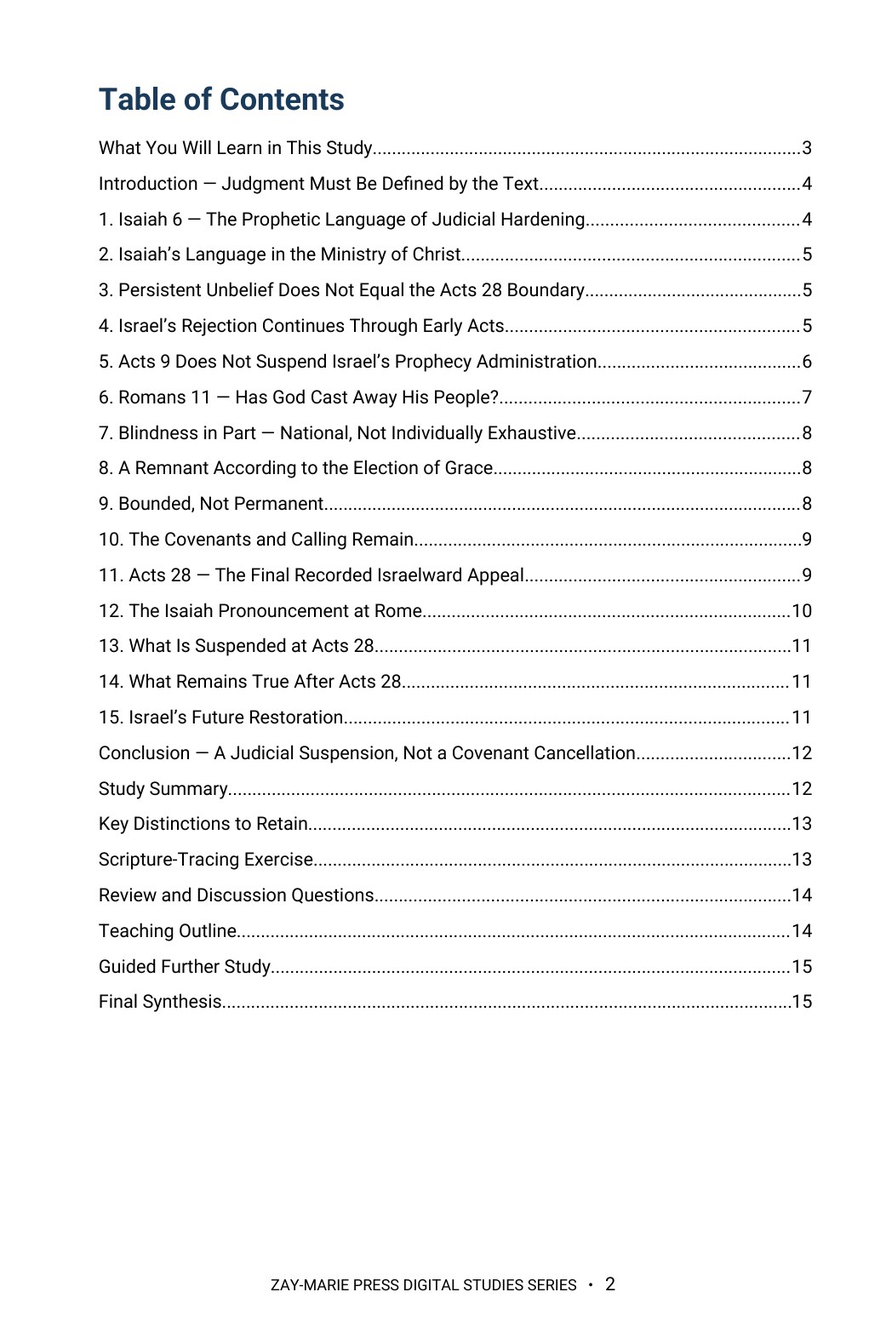
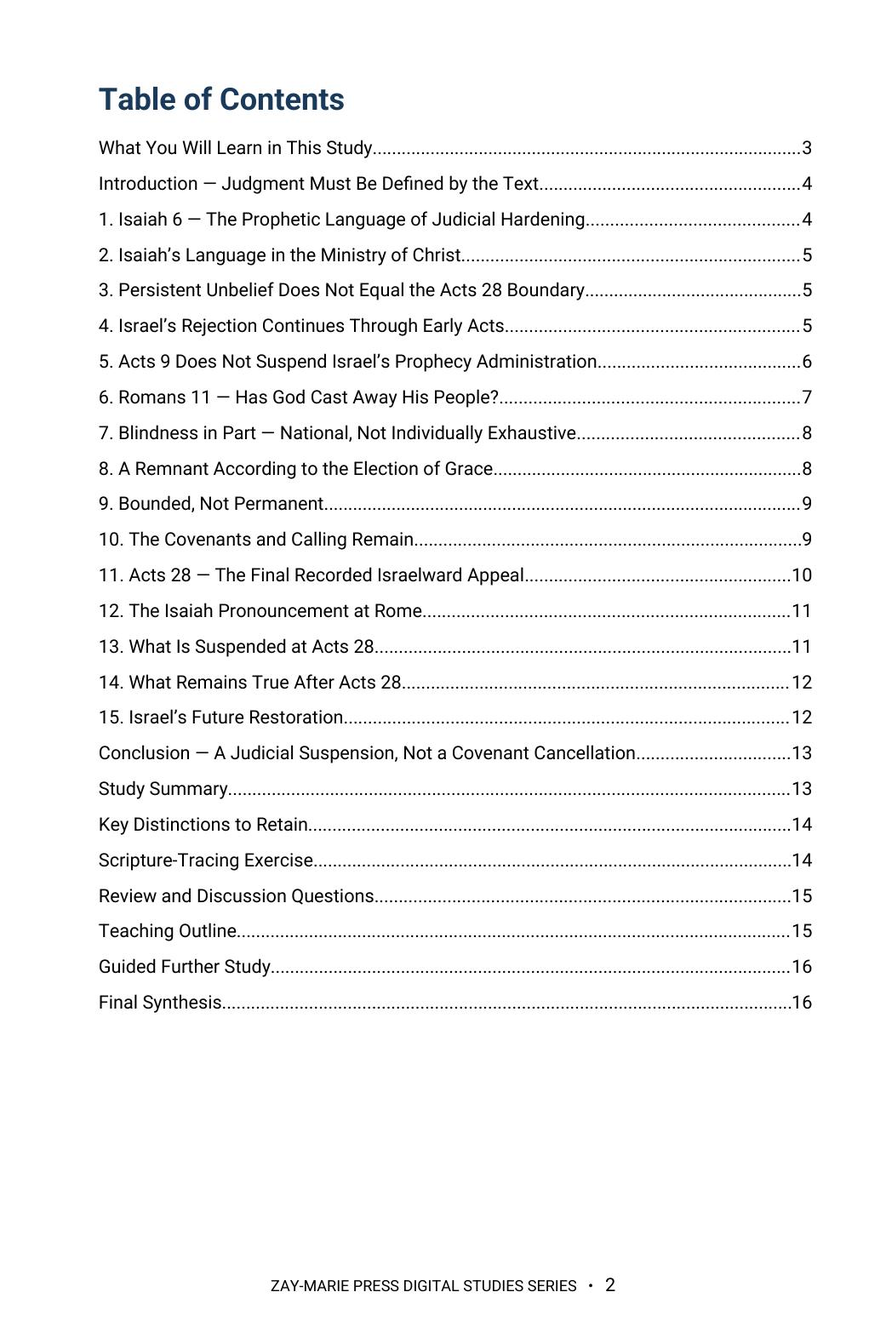
Study 21 retrofit: page count 17, previews 2-4, hero/included counts; trackers v1.27/v1.120
Claude-Session: https://claude.ai/code/session_01KcENxFzE91mCRyTPWhcwnE

diff --git a/study-21-israels-judicial-blinding.html b/study-21-israels-judicial-blinding.html
@@ -14,7 +14,7 @@
   <body class="study-detail-page">
     <header class="site-header"><div class="wrap nav"><a class="logo" href="index.html" aria-label="Zay-Marie Press home"><img src="assets/zay-marie-press-logo-hq.png" alt="Zay-Marie Press" width="420" height="238" /></a><button class="menu-toggle" type="button" aria-expanded="false" aria-controls="primary-nav">MENU</button><nav aria-label="Primary navigation" class="primary-nav" id="primary-nav"><a href="index.html">HOME</a><a href="books.html">BOOKS</a><a href="series.html">SERIES</a><a class="active" aria-current="page" href="digital-studies.html">DIGITAL STUDIES</a><a href="biblical-hermeneutics-course.html">COURSE</a><a href="about.html">ABOUT</a><a href="resources.html">RESOURCES</a><a href="contact.html">CONTACT</a></nav></div></header>
     <main>
-      <section class="detail-hero"><div class="wrap detail-hero-grid"><div class="detail-cover"><picture><source srcset="assets/study-21-cover.webp" type="image/webp"><img src="assets/study-21-cover.jpg" alt="Israel’s Judicial Blinding - Study 21 cover" /></picture></div><div><div class="eyebrow">STUDY 21 · DIGITAL STUDY</div><h1>Israel’s Judicial Blinding</h1><p class="detail-subtitle">Hardening, Purpose, and the Hope of Restoration</p><p class="detail-kicker">A Clearer Understanding of Romans 11 and the Acts 28 Boundary</p><p class="detail-copy">Israel’s judicial blinding must be understood within the full Acts narrative. Isaiah’s hardening language appears before Acts 28, yet Israel’s active national Prophecy administration continues during the Acts Overlap while the Mystery administration also operates distinctly through Paul.</p><p class="detail-copy">This study follows the biblical evidence to Acts 28, where the final recorded Israelward appeal reaches its judicial boundary. It explains what is suspended, what remains true, and why Romans 11 preserves Israel’s future restoration.</p><div class="detail-buyline"><span class="detail-price">$5.99</span><span class="detail-format">Digital PDF · 16 Pages</span><span class="detail-button pending" aria-disabled="true">Checkout Coming Soon</span></div></div></div></section>
+      <section class="detail-hero"><div class="wrap detail-hero-grid"><div class="detail-cover"><picture><source srcset="assets/study-21-cover.webp" type="image/webp"><img src="assets/study-21-cover.jpg" alt="Israel’s Judicial Blinding - Study 21 cover" /></picture></div><div><div class="eyebrow">STUDY 21 · DIGITAL STUDY</div><h1>Israel’s Judicial Blinding</h1><p class="detail-subtitle">Hardening, Purpose, and the Hope of Restoration</p><p class="detail-kicker">A Clearer Understanding of Romans 11 and the Acts 28 Boundary</p><p class="detail-copy">Israel’s judicial blinding must be understood within the full Acts narrative. Isaiah’s hardening language appears before Acts 28, yet Israel’s active national Prophecy administration continues during the Acts Overlap while the Mystery administration also operates distinctly through Paul.</p><p class="detail-copy">This study follows the biblical evidence to Acts 28, where the final recorded Israelward appeal reaches its judicial boundary. It explains what is suspended, what remains true, and why Romans 11 preserves Israel’s future restoration.</p><div class="detail-buyline"><span class="detail-price">$5.99</span><span class="detail-format">Digital PDF · 17 Pages</span><span class="detail-button pending" aria-disabled="true">Checkout Coming Soon</span></div></div></div></section>
       <section class="detail-section"><div class="wrap"><div class="eyebrow">ABOUT THIS STUDY</div><h2>What Does Judicial Blinding Mean?</h2><p class="lead">Judicial blinding is a real national judgment, but it is neither individually exhaustive nor covenant-canceling. Believing Israelites remain, Israel’s promises remain valid, and Romans 11 looks ahead to future restoration.</p><p class="lead">This study distinguishes recurring prophetic hardening language from the climactic administrative boundary at Acts 28. It preserves the concurrent operation of Prophecy and Mystery during Acts 9–28 while identifying the judicial suspension of Israel’s active national Prophecy administration at Acts 28.</p><p class="lead">This is not a study of the believing remnant’s own continued existence within Israel, which Study 9 follows in its own right, nor of Romans 11’s olive-tree image of branches broken off and grafted in, which Study 13 reads on its own terms. Its task is narrower: to fix the exact extent of Israel’s corporate hardening — what it covers and what it leaves untouched — and to ask whether a judicial suspension of Israel’s national administration can ever be read as canceling a covenant promise rather than merely postponing its exercise.</p><div class="study-distinction"><h3>How These Studies Relate</h3><p>Study 21 traces Israel’s corporate judicial blinding in Romans 11 and Acts 28.</p><p><a href="study-09-the-remnant.html">Study 9 — The Remnant</a> Follow the believing remnant through the same national history; its existence explains why corporate hardening does not erase every Israelite’s faith.</p><p><a href="study-13-the-olive-tree-and-the-body-of-christ.html">Study 13 — The Olive Tree and the Body of Christ</a> Read Paul’s natural branches, wild branch, and future reception in Romans 11; the olive-tree illustration makes the consequences and limits of hardening more precise.</p><p><a href="study-63-isaiah-7-13-16.html">Study 63 — Isaiah 7:13–16</a> Read the sign given to the house of David in the chapter after Isaiah 6; Study 21 traces the hardening announced just before it.</p><p class="connection-guide-link"><a href="study-connections.html#study-21">Explore the full connection guide for Study 21 →</a></p></div><div class="cross-strand-note"><p class="cross-strand-label">FROM THE PARABLES STRAND</p><p>Three parables narrate, in story form, the rejection this study explains doctrinally.</p><p><a href="parable-07-the-wicked-tenants.html">The Wicked Tenants</a> · <a href="parable-08-the-wedding-banquet.html">The Wedding Banquet</a> · <a href="parable-09-the-great-banquet.html">The Great Banquet</a></p></div></div></section>
       <section class="detail-section soft"><div class="wrap"><div class="eyebrow">WHAT YOU’LL STUDY</div><h2>Follow the Biblical Evidence to Acts 28</h2><div class="study-points">
         <div class="study-point"><h3>Isaiah 6 and Judicial Hardening</h3><p>Begin with the prophetic vocabulary of seeing, hearing, resistance, and covenant responsibility.</p></div>
@@ -41,7 +41,7 @@
         <div class="preview-card"><a class="preview-image-link" data-preview-lightbox href="assets/study-21-page-4.jpg"><img src="assets/study-21-page-4.jpg" alt="Study 21 interior preview — page 4, Introduction, Judgment Must Be Defined by the Text" /></a><div class="page-no">Page 4</div><h3>Introduction: Judgment Must Be Defined by the Text</h3><p>Start with the interpretive question the study asks before any passage is examined.</p></div>
       </div></div></section>
       <section class="detail-section"><div class="wrap"><div class="eyebrow">WHAT’S INCLUDED</div><h2>A Focused Study Built for<br />Understanding and Teaching</h2><div class="includes-grid">
-        <div class="include-item"><h3>16-Page Biblical Study</h3><p>A focused study of Israel’s judicial blinding from Isaiah through Acts 28 and Romans 11.</p></div>
+        <div class="include-item"><h3>17-Page Biblical Study</h3><p>A focused study of Israel’s judicial blinding from Isaiah through Acts 28 and Romans 11.</p></div>
         <div class="include-item"><h3>Fifteen Teaching Sections</h3><p>Follow the argument from prophetic hardening language to the Acts 28 judicial boundary.</p></div>
         <div class="include-item"><h3>Romans 11 Analysis</h3><p>Trace the scope, remnant, duration, covenant status, and future outcome of Israel’s hardening.</p></div>
         <div class="include-item"><h3>Acts 28 Boundary</h3><p>Examine the final recorded Israelward appeal and Paul’s Isaiah pronouncement at Rome.</p></div>

diff --git a/site.js b/site.js
@@ -62,7 +62,7 @@ const resourceModal=document.querySelector('#resource-modal'), resourceModalTitl
 if(resourceModal&&resourceModalTriggers.length){const closeResourceModal=()=>{resourceModal.hidden=true;document.body.classList.remove('resource-modal-open');lastResourceTrigger?.focus();};resourceModalTriggers.forEach(trigger=>trigger.addEventListener('click',()=>{lastResourceTrigger=trigger;if(resourceModalTitle)resourceModalTitle.textContent=trigger.dataset.title||'Resource';if(resourceModalDescription)resourceModalDescription.textContent=trigger.dataset.description||'';if(resourceModalLink){resourceModalLink.href=trigger.dataset.href||'#';resourceModalLink.textContent=trigger.dataset.linkText||'OPEN RESOURCE';}resourceModal.hidden=false;document.body.classList.add('resource-modal-open');resourceModalClose?.focus();}));resourceModalClose?.addEventListener('click',closeResourceModal);resourceModal.addEventListener('click',e=>{if(e.target===resourceModal)closeResourceModal();});document.addEventListener('keydown',e=>{if(e.key==='Escape'&&!resourceModal.hidden)closeResourceModal();});}
 
 /* Display the verified final-PDF page count at the primary purchase decision point. */
-const digitalStudyPageCounts={1:14,2:14,3:18,4:18,5:16,6:16,7:16,8:16,9:16,10:23,11:15,12:15,13:19,14:15,15:16,16:16,17:18,18:18,19:16,20:16,21:16,22:16,23:16,24:16,25:17,26:18,27:16,28:16,29:16,30:17,31:19,32:16,33:16,34:16,35:16,36:16,37:16,38:16,39:16,40:16,41:16,42:16,43:16,44:16,45:16,46:16,47:16,48:16,49:17,50:16,51:16,52:16,53:16,54:16,55:16,56:16,57:16,58:16,61:16,62:16,63:16,64:16,65:16,66:16,67:16,68:16,69:16,70:16,71:16};
+const digitalStudyPageCounts={1:14,2:14,3:18,4:18,5:16,6:16,7:16,8:16,9:16,10:23,11:15,12:15,13:19,14:15,15:16,16:16,17:18,18:18,19:16,20:16,21:17,22:16,23:16,24:16,25:17,26:18,27:16,28:16,29:16,30:17,31:19,32:16,33:16,34:16,35:16,36:16,37:16,38:16,39:16,40:16,41:16,42:16,43:16,44:16,45:16,46:16,47:16,48:16,49:17,50:16,51:16,52:16,53:16,54:16,55:16,56:16,57:16,58:16,61:16,62:16,63:16,64:16,65:16,66:16,67:16,68:16,69:16,70:16,71:16};
 const digitalStudyMatch=window.location.pathname.match(/\/study-(\d+)-/i);
 const digitalStudyFormat=document.querySelector('.detail-hero .detail-format');
 if(digitalStudyMatch&&digitalStudyFormat){const studyNumber=Number(digitalStudyMatch[1]),pageCount=digitalStudyPageCounts[studyNumber];if(pageCount)digitalStudyFormat.textContent=`Digital PDF · ${pageCount} Pages`;}

diff --git a/CLAUDE.md b/CLAUDE.md
@@ -18,7 +18,7 @@ These are kept in the repo at `controlling-documents/` and are the current versi
 - **`controlling-documents/Zay-Marie_Press_Digital_Studies_Master_Standard_v1.46.pdf`** — Master Standard v1.46 (an editable `.docx` copy sits beside the PDF). Governs study structure, cover, PDF assembly, website package and publication (includes §16 Individual Study Preview Selection Standard). §16 fixes the preview set at exactly three pages: Table of Contents, What You Will Learn, and one further page of real substance that does not give away the study's thesis. As of v1.19, §2 (Forward Cover System) adds a Cover Art Brief step: Claude drafts a detailed written cover art description (image concept, composition, palette, lighting, symbolic content) for the publisher to hand to the illustrator, before the illustrator produces artwork — see Approval Checkpoint 3 below. As of v1.20, §6 (Body-Content Standard) fixes exact interior spacing values: body paragraphs 6pt space-after / 0pt space-before / 1.08 line spacing; Heading 1 14pt space-before / 8pt space-after; Heading 2 10pt space-before / 5pt space-after. As of v1.21, §9 (Content-Depth and Page-Length Standard) fixes the substantive-interior page count at exactly 15 pages, replacing the prior 13–17 page range; matching references updated in the Page-Count Control note (§3) and Stages 2 and 4 of the Study Development and Approval Workflow (§14). As of v1.22, §18 (About This Study — Related-Study Distinction Standard, originally added as §17 and renumbered by v1.24) requires a second paragraph in every study's About This Study section, placed before the "How These Studies Relate" box: it names the specific neighbouring studies a reader might confuse this one with, states what ground each one covers that this study doesn't (or vice versa), and closes with the single narrower question this study alone answers — see the "About This Study" bullet below. Governs new studies going forward; existing studies get it when reopened or when the publisher directs a retrofit. As of v1.23, §13 (Tables Symbols and Contrast Standard) changes the table-header treatment from dark navy to Slate Blue (#3B6E91) with high-contrast light text retained; the border-color cross-reference in the same section is updated to match. Applies to all studies going forward. As of v1.24, new §17 (Preview-Page Interpretive-Outcome Standard) codifies the publisher's 2026-09-28 preview-page conclusion-spoiler directive (see the section below) as a Master Standard requirement: preview pages must state interpretive outcomes and name the textual markers the reader will trace, never the study's doctrinal conclusion. Adding it renumbered the former §17/§18/§19 to §18 (About This Study), §19 (Locked Status), and §20 (Version History). As of v1.25 (publisher directive, 2026-09-28), §5 (Table of Contents Standard) requires Arabic numerals only — Roman numerals are never used in a Table of Contents — and a single flat list on one left-aligned axis: What You Will Learn in This Study, Introduction, the teaching sections numbered exactly as in the body, then Conclusion through Final Synthesis; Study Goal and Study Outline are not TOC entries. As of v1.26 and v1.27 (publisher directive, 2026-09-30), §8 (renamed Color and Typography Control) carries the Interior Typeface Standard: every Digital Study interior and Doctrinal Packet, headings included, is set in **Roboto** in four true faces (Regular, Italic, Bold, Bold Italic; static files; lining numerals), with no other or fallback font embedded. v1.26 first specified EB Garamond; the publisher replaced it with Roboto in v1.27 after a Study 2 test build. It applies to all studies past, present and future, and to Doctrinal Packets; Stages 3 and 4 of §14 require it and a `pdffonts` check. Existing studies move to it when reopened or when the publisher directs. The static Roboto files and the build recipe are in `fonts/` (see `fonts/README.md`); the Framework carries the rule as PAM Rule 6 and a dated Section 4 (continued) entry. The v1.26/v1.27 files were rebuilt from the publisher's v1.13 DOCX (Sections 1–2) plus the v1.25 text. As of v1.28 (publisher directive, 2026-09-30): §4 requires exactly five callouts per study, all boxed (light-blue box, 1 pt dark navy border, bold uppercase navy title; extra source callouts become body paragraphs with a bold run-in lead, wording unchanged); §10 places the copyright notice only in the end imprint, with no front copyright page; §13 makes table body rows plain white under Slate Blue headers. As of v1.29 (publisher directive, 2026-09-30), §5 sets Table of Contents entries at the body-paragraph spacing (6 pt after, 1.08 line spacing) as first shown in Study 5, for studies built from Study 6 forward; Studies 1–5 and 9 keep their current TOC spacing unless reopened. As of v1.30 (publisher directive, 2026-09-30), §6 sets Heading 1 (numbered major sections) at 12 pt space-before and 8 pt space-after, replacing 14 pt space-before, as compared side by side on Study 6 page 5; it applies to studies built from Study 6 forward, and Studies 1–5 and 9 (built at 14 pt) are not reopened for it. Heading 2 (10/5) and body paragraphs (6 pt after, 1.08) are unchanged. As of v1.31 (publisher directive, 2026-10-01), new §19 (Catalog Category Standard) fixes the five catalog categories, the ordered decision procedure, the precedents, the 71 final assignments and the cover-label forms (working copy and version history in `controlling-documents/Digital_Studies_Category_Standard_v1.1.md`); Locked Status and Version History moved to §20 and §21. As of v1.32 (publisher directive, 2026-10-01), the upper-right cover label must be the exact name of the study's catalog category (§2 Cover Architecture and §19 Cover Labels); the shortened and legacy labels RIGHT DIVISION, PROPHECY, DOCTRINE, INTERPRETATION and BIBLICAL DOCTRINE are retired and all 71 covers were re-lettered. As of v1.33 (publisher directive, 2026-10-01), new §20 (Doctrinal Drafting Standard) carries PAM Rules 7–10 from the Framework so settled rulings are applied without being asked again: identity wording ("the Israel of God" = believing Jews within the Body, Israel by identity; never "believing Israel" alone; never a remnant beside or outside the Body in the present administration; required clarifier "This speaks of identity, not program membership; the remnant is ethnic-covenantal, and believing Jews are gathered into the Body during the Mystery administration"; Gentiles participate spiritually, never called Israel or "spiritual Israel"); the anchoring-sentence rule for books the PAM does not assign (Hebrews, Revelation, James, 1 Peter, 2 John; Philippians, 1 Thessalonians, 2 Timothy; Gal 2:1–10 report-only); standing wording for the Acts divisions, "the 'one taken, one left' passages", Eph 2:14 "abolished for the Body", judgment and related rulings; and the review procedure (conforming wording is applied and noted in one line, and only a new or uncovered passage is reported for a ruling). Locked Status and Version History moved to §21 and §22. As of v1.34 (publisher directive, 2026-10-01), Rule 7 adds the overlap-period rule: Peter's believing company and the circumcision apostleship during Acts 9–28 may be described as continuing under the Prophecy Program only with the clarification "During the overlap, the circumcision apostleship ministers to Israel under the Prophecy Program; believing Jews are gathered into the Body through Paul's ministry, and this speaks of identity, not program membership" (program membership and corporate identity are not the same question; no believing Israelite is placed outside the Body after Acts 9). As of v1.35 (publisher directive, 2026-10-01), §20 adds Rule 11: Paul's fillings, signs and miraculous events in Acts 9–28 are overlap phenomena, reported from the text and not assigned to a single program; they occur in settings shaped by Israel's Prophecy Program, but Paul's participation does not convert them into Prophecy Program content or make them Mystery content (standing wording: "These are recorded in settings shaped by Israel's Prophecy Program, which remained operative throughout Acts 9–28 even as the Mystery Program began. Acts 9–28 is the overlap; where Paul or his companions are the ones filled or working signs, the study reports the text and does not assign the event to a single program."; Acts table column title "The Spirit's Activity Recorded in Acts"; speaker identity is not program identity, and historical participation is not doctrinal obligation). Rule 10 refers to Rules 1–9 and 11. As of v1.36 (publisher directive, 2026-10-01), §20 adds Rule 12: where the PAM does not assign a book or passage, the study may use the text for universal doctrinal truth without assigning the book to a program, and must include the anchoring sentence "The Framework does not assign this book; this reading rests on the passage's own audience markers and setting." (it extends Rule 8 to unassigned books and passages Rule 8 does not name); Rule 10 refers to Rules 1–9, 11 and 12. As of v1.45 (publisher directive, 2026-10-02), §20 Rules 8, 12 and 14 carry the **reader-facing wording rule, extended**: internal working terms never appear in reader-facing text. The Framework, the PAM (Program Assignment Manual), the Master Standard, rule numbers, standing sentences, anchoring sentences, review notes, audit trackers, "firewall" and every similar working term are never named, cited or alluded to in study text, website copy or Doctrinal Packets. The Rule 8 and Rule 12 anchor sentences and the Hebrews sentence are replaced by reader-facing forms: for a book, "This reading rests on the letter's own audience markers and setting."; for a passage, "This reading rests on the passage's own audience markers and setting." (plural "these passages … the passages' own audience markers and setting"); the Hebrews sentence becomes "This reading rests on the letter's own audience markers and on the covenant it quotes (Jeremiah 31:31–34), which belongs to the house of Israel and the house of Judah, the Body benefiting from Christ's blood without being the covenant party." Whether a line is needed is still decided by the reviewer's classification (book not assigned or listed; passage in a PAM-assigned book with no PAM entry; other Rule 12 cases), but the reader sees one sentence and no internal term. The v1.44 "The Framework does not assign …" and "The PAM makes no assignment …" wordings are WITHDRAWN and are converted when a study is reopened or in the Wave 5 sweep; first applied to Study 55. Written into the Framework Rules 8, 12 and 14 in the same pass. As of v1.44 (publisher directive, 2026-10-02), §20 Rule 12 adds **anchor wording by classification** (superseded by v1.45 for the sentence text) (also written into Framework Rule 12): a book the PAM does not assign or list (Philippians, Hebrews, James, 1 Peter, 2 John) keeps "The Framework does not assign [book] as a book; this reading rests on the letter's own audience markers and setting."; a passage inside a PAM-assigned book (Galatians, Romans, Ephesians, Corinthians, Acts, John, Luke) that has no PAM entry takes "The PAM makes no assignment for this passage; this reading rests on the passage's own audience markers and setting." (plural "these passages" where a line covers several). First applied to Study 51; every study brought through the retrofit is checked for it. As of v1.43 (publisher directive, 2026-10-02), §20 Rule 14 adds the **reader-facing wording rule** (also written into Framework Rule 14): "firewall," "Olive Tree Firewall" and similar control labels are internal drafting terms and never appear in study text, website copy or Doctrinal Packets; studies state the boundaries in plain language (for example "Four boundaries govern the reading:"), and any term a study has not itself introduced and defined is treated the same way. Studies 9, 13, 35 and 36 were corrected on 2026-10-02. As of v1.42 (publisher directive, 2026-10-02), §20 Rule 14 adds the **Romans 11 Strong Firewall** as a standing rule for every Romans 11 treatment in every study (also written into Framework Rule 14): Romans 11 explains prophetic participation, not corporate identity, covenant membership or Mystery formation; the wild branch does not become Israel, enter Israel's covenants or become a natural branch; the olive tree is not the Body; standing triad "Participation is not identity. Blessing is not covenant. Standing is not program membership."; "Identity is fixed by divine program, not by metaphor."; "Salvation has come to the Gentiles" means salvation, not covenant, prophetic identity or Israel's program; four-point governing list (olive tree = prophetic blessing; Romans 11 Gentiles = prophetic participants; wild branches are not Body members; grafting changes participation, not identity); warning line on identity transfer; concurrency close ("Concurrency is operational, not transformational."). Depth: a study that treats Romans 11 at length carries the full firewall in the voice of Study 13 v2 (the reference text); a passing citation carries at least the four-point list and the triad; a mild clarification is not sufficient. Studies 9, 21, 35, 36 and others are brought to it when reopened or when the publisher directs. As of v1.41 (publisher directive, 2026-10-02), Rules 7 and 15 carry two approved standing sentences for the retrofit: overlap — "During the overlap, the circumcision apostleship ministers to Israel under the Prophecy Program, and Paul's gospel forms the Body; the two operate concurrently and never merge, transfer or absorb one another." (replaces the withdrawn "gathered into the Body" sentence); Galatians 3 — "The seed is prophetic fulfillment in Christ; the Body receives blessing through Christ alone, not through participation in the Abrahamic covenant." (replaces all older Abrahamic-participation language). As of v1.40 (publisher directive, 2026-10-02), Rules 7 and 17 add the ruling that a Jewish member of the Body is not Israel: Body by identity, new creation by ontology, non-Israel by corporate identity, non-prophetic by program membership, non-covenantal by blessing structure, heavenly by destiny; ethnicity is a historical fact with no covenantal or programmatic force once a person is in the Body. The Rule 7 line "Israel remains Israel; the ethnic distinction is kept" is replaced by "Israel remains Israel, and the Body is not Israel"; the Framework identity sections (§V, PAM definition 2) carry it too. As of v1.39 (publisher directive, 2026-10-02), §20 adds Rule 17 (The remnant and the Body during Acts 9–28), also written into the Framework §XIX: the remnant never becomes the Body and stays outside the Body, the Mystery Program, the heavenly calling and Pauline identity; the Body is formed only by Paul's gospel from Acts 9, is gathered in on belief and is not Israel or the remnant; no shared identity, membership, covenant, gospel, hope, Spirit ministry or destiny; the standing summary sentence ("During Acts 9–28, the remnant remains Israel's prophetic believing company, and the Body remains the Mystery new creation. They coexist historically but never merge in identity, membership, calling, covenant, gospel, hope, or destiny. Concurrency is operational, not transformational.") and the one-sentence relationship rule are used wherever the relationship is stated; Rule 10 now reads "Rules 1–9 and 11–17". As of v1.38 (publisher directive, 2026-10-02), §20 (Doctrinal Drafting Standard) is amended and extended to carry the Framework's doctrinal upgrade: Rules 7–10 are rewritten and Rules 13–16 are added (see the Framework entry above for the points and the withdrawn wordings); Rule 10 now reads "Rules 1–9 and 11–16"; Rule 8 no longer lists Revelation as unassigned. As of v1.37 (publisher directive, 2026-10-02), a new "Study 52 Reference Standard" subsection in §6 makes Study 52 (Sonship and Adoption) the **golden standard** for the format, structure and blue/black type balance of every Digital Study from Study 53 forward: navy (#1B3350) only on major-section headings (Roboto Bold 17 pt), callout titles (10 pt bold caps) and the "Study Outline" sub-heading (12 pt bold); everything else black Roboto Regular 9 pt; numbered subsections (1.1, 1.2 …) are body-weight black lines at body spacing, not navy headings (as in Studies 50, 51 and 52); about 1–2% of interior characters navy; the section order, five boxed callouts, KJV tables (Verse / KJV text / What to observe), Scripture-Tracing, Review, Teaching Outline, Guided Further Study, Final Synthesis and single end imprint on a 16-page build. Studies 1–51 are NOT retrofitted and stay as published; build every new study to Study 52's final approved PDF/DOCX as the visual reference, and do not set subsections in navy. The §6 Heading 2 line was clarified (10/5 applies to unnumbered sub-headings such as "Study Outline"). See §22 Version History in the document itself.
 - As of v1.46 (publisher directive, 2026-10-02), §20 adds Rule 18 (Paul’s synagogue ministry and his commission), also written into Framework §XIX: Paul’s commission, gospel and apostleship never change; his synagogue preaching is audience-specific proclamation to Israel, not a second gospel, not a change of commission and not Body membership for his hearers; standing sentence and short form (“Paul’s synagogue preaching was audience-specific, not commission-specific.”) used wherever a study mentions Paul’s synagogue ministry, in full in Studies 14, 18, 21 and 43; Rule 10 now reads “Rules 1–9 and 11–18”.**`controlling-documents/Digital_Studies_Relationship_Map_v1.39.md`** — records each study's distinct subject, its related studies, the eight priced six-study collections, the Paul's Missionary Journeys cross-reference map, and the five primary catalog categories (currently version 1.39, covers Studies 1–71; update it as new studies publish, bump the version number, rename the file to match, and log the change in its own version-history table — mirroring the Master Standard's `_vX.Y` filename convention). Check a proposed topic against it before recommending or writing a new study. (2026-09-28: the file was missing from this repo despite this note referencing it; replaced from the publisher's copy and bumped v1.15→v1.25 in the same pass. If this note ever again points to a version not present under `controlling-documents/`, ask the publisher for a copy rather than proceeding without the check.)
 - **`controlling-documents/Digital_Studies_Category_Standard_v1.1.md`** — FINAL and binding (publisher, 2026-10-01): the rules for the five primary catalog categories (Foundations, Israel & Prophecy, Body of Christ, Passages, Doctrinal Themes), the ordered decision procedure for new studies, the precedents, all 71 fixed assignments, and the cover-label form for each category. Read it before placing any card or cover label. Do not ask the publisher where a study belongs; apply the procedure and state the result. Only the publisher changes a ruling; then bump this Standard's version and filename, re-letter the cover, and update the Relationship Map.
-- **`controlling-documents/Doctrinal_Upgrade_Retrofit_Plan_v1.26.md`** — working tracker for retrofitting Studies 1–59 to the 2026-10-02 doctrinal upgrade (Framework/PAM v1.1, Master Standard v1.40, Rules 7–17): withdrawn-wording search keys, impact tiers, waves and the per-study method. Read it before continuing the retrofit in any session; update status, bump the version and rename the file as work proceeds.
+- **`controlling-documents/Doctrinal_Upgrade_Retrofit_Plan_v1.27.md`** — working tracker for retrofitting Studies 1–59 to the 2026-10-02 doctrinal upgrade (Framework/PAM v1.1, Master Standard v1.40, Rules 7–17): withdrawn-wording search keys, impact tiers, waves and the per-study method. Read it before continuing the retrofit in any session; update status, bump the version and rename the file as work proceeds.
 - **`controlling-documents/Doctrinal_Packet_Standard_v0.3.md`** — Doctrinal Packet Standard (DRAFT; §7 approved). Governs the separate Doctrinal Packets product strand (5-page interpretive PDFs per Bible book — a print-friendly cover as page 1 plus 4 content pages, $2.99, KJV, pilot: Genesis, live at `packet-genesis.html`, hub `doctrinal-packets.html`; site pages say "5 Pages", cover styles live in `packets.css`, Old Testament blue and New Testament soft pale green, hub listed in Bible order). **Preview rule (publisher directive, 2026-09-29, packets only):** previews show about one page's worth in two cropped views (top of page 1 through the anchor texts; the chart section) — never the exegesis, architecture, Mystery contrast, logic chain, outline, or closing. Master Standard §16/§17 still govern Digital Studies. Bump the version and rename the file as the Standard is finalized.
 - **`controlling-documents/Preview_Page_Spoiler_Retrofit_Audit_v1.4.md`** — working tracker for the Studies 1–60 preview-page conclusion-spoiler retrofit (see the section below). Read it before continuing that audit in any session; update its status fields and changelog, bump the version, and rename the file to match as the audit proceeds — same `_vX.Y` convention as the other controlling documents. As of v1.1, the website-side half was DONE: all 60 studies' "What You'll Study" text was judged against the rule (methodology documented in the file) and 22 points across 11 studies were rewritten and pushed; an unrelated Study 22 content bug (Study 21's content had leaked into it) was also found and fixed. As of v1.2, the publisher supplied Studies 1–60's interior production PDFs and the interior-PDF half was also surveyed (read-only): 10 studies (37, 41, 45, 47, 48, 49, 51, 52, 53, 54) were found to have at least one interior "What You Will Learn" violation, 50 studies were confirmed compliant, and the orphaned `assets/study-45-sanctification-under-grace.docx` (removed from the repo per the publisher in v1.0) was confirmed word-for-word identical to Study 45's actual production interior PDF content. As of v1.3, the publisher supplied editable DOCX sources for all 10 violating studies; all 15 violating points were rewritten and approved, delivered as corrected final PDFs, and — along the way — a second defect was found and fixed (Studies 47 and 48's source DOCX still had an unintegrated cover placeholder despite both being long-published live with real covers; fixed by inserting the existing approved cover art). The website's "What You Will Learn" preview image (`study-NN-page-3.jpg`) was regenerated from the corrected content for all 10 studies and pushed to `main` (commit `cea1859`), verified against a fresh clone. **The website side of this audit is now fully compliant for all 60 studies.** Outstanding: the publisher's purchasable interior PDF files themselves have corrected versions delivered, but distribution to existing purchasers was decided by the publisher on 2026-09-29: silent swap of the files behind the existing downloads, no reissue notice (recorded in the v1.4 changelog entry; the product files are not in this repo).
 

diff --git a/controlling-documents/Doctrinal_Upgrade_Retrofit_Plan_v1.27.md b/controlling-documents/Doctrinal_Upgrade_Retrofit_Plan_v1.27.md
@@ -39,6 +39,7 @@ Working tracker for correcting published studies to the Framework/PAM v1.1, Mast
 | 58 What Is a Dispensation? | overlap sentence | DONE 2026-10-02 (v1.20): interior corrected (16 pp, Roboto; no layout change needed). Withdrawn overlap sentence replaced with the standing sentence (§5); Acts 28 'not a transfer' added (Introduction, §5 twice, Investigation); 'this framework' / 'Acts Overlap framework' working terms removed (§3, §5, Study Summary); Colossians anchor added (§4). Website: page-7 preview re-rendered (anchor sentence added on that page); site.js 58:16 added |
 | 17 The Abrahamic Covenant | Tier 2 read (Abrahamic) | DONE 2026-10-02 (v1.24): interior corrected (18 pp, Roboto; no layout change, TOC unchanged). No Abrahamic-participation or Romans 11 wording found. 'This framework' and 'Acts Overlap framework' working terms removed (§9, Review Q10); Acts 28 'Prophecy is suspended' wording replaced with national judicial suspension, not abolition and not a transfer (OVERLAP CONTROL box, Study Summary table, Teaching Outline); standing overlap sentence added (§9). Website: previews 2, 3, 5 unchanged (pages unchanged); site.js 17:18 confirmed |
 | 12 The New Covenant | Tier 1 read (New Covenant) | DONE 2026-10-02 (v1.26): interior corrected (15 pp, Roboto; TOC renumbered). Overlap sentence; Acts 28 'national judicial suspension, not abolition and not a transfer' x6; Romans 11 boundaries block (new 7.2); Rule 7 line. No Rule 18 hit (no synagogue mention). Website: site.js 12:15, scripture card wording, page-2 preview re-rendered. |
+| 21 Israel's Judicial Blinding | Tier 1 read (Romans 11, Acts 28, Rule 18) | DONE 2026-10-02 (v1.27): interior corrected (17 pp, Roboto; TOC renumbered). 'The Framework classifies…' and 4 'framework' working terms removed; withdrawn 'gathered into the Body' remnant passage replaced (Rule 17 sentence; Jewish member of the Body is not Israel); overlap sentence; Acts 28 'national judicial suspension, not abolition and not a transfer' x7; Romans 11 boundaries block (new 6.1, full); Rule 18 full sentence (5, 11) and short form (12); local turns 'geographic and ministerial'; passage anchor for Matthew 13/Mark 4. Website: site.js 21:17, What's Included 17-Page, hero 17 Pages, previews 2, 3, 4 re-rendered (1041x1565). |
 | 39 The Church's Relationship to Israel's Scriptures | Abrahamic/covenant participation + overlap sentence | DONE 2026-10-02 (v1.23): interior corrected (16 pp, Roboto). Withdrawn overlap sentence replaced with the standing sentence and Acts 28 'not abolition and not a transfer' added (§9); 'Gentiles participate spiritually' replaced by the standing Galatians 3 sentence (§8) and 'whole/every covenant term' partial-transfer wording tightened (§8, Study Summary, Key Distinctions table); Romans 11 four-point list and triad added (Introduction); 2 Timothy and Philippians anchors converted and a Colossians anchor added. Sections moved down: TOC updated (7 numbers); 16 pp. Website: previews 2, 3, 5 re-rendered at 1041x1565; site.js 39:16 unchanged |
 | 40 Who Is Abraham's Seed? | Gal 3 / Abrahamic participation (core) | DONE 2026-10-02 (v1.22): interior corrected (16 pp, Roboto). Withdrawn overlap sentence replaced with the standing sentence (Introduction); Romans 11 four-point list and triad added (Introduction); the 'Gentiles participate spiritually / Abrahamic heirship, benefit, inheritance, connection' family replaced with the standing Galatians 3 sentence and plain wording (§6, §8, §10, Study Summary, Key Distinctions table); Romans 4 'participate in promise' and Teaching Outline 'share that benefit' reworded. Sections moved down: TOC updated (Conclusion p10, Scripture-Tracing p11, Guided Further Study p16); 16 pp. Website: preview pages 2, 3 and 4 re-rendered; site.js 40:16 unchanged |
 | 52 Sonship and Adoption | Gal 3 / Abrahamic participation | DONE 2026-10-02 (v1.21): interior corrected (16 pp, Roboto). Withdrawn Galatians 3:26–29 'Gentiles participate spiritually / ethnic distinction is kept' wording replaced by the standing Galatians 3 sentence (3.4) and the 'participation in the seed is spiritual' line reworded; Study 40 pointer parenthetical removed; nine 'The Framework does not assign…' anchors and the Hebrews sentence converted to the reader-facing forms; Romans 11 four-point list and triad added (Group 3). Shorter anchors moved sections up a page, so TOC numbers updated (§5 p9, §6 p11, Conclusion p12, etc.); total still 16 pp. Website: page-2 (TOC) preview re-rendered; pages 3 and 5 unchanged |
@@ -94,6 +95,7 @@ Working tracker for correcting published studies to the Framework/PAM v1.1, Mast
 - v1.22 (2026-10-02): Study 40 retrofit complete (see row). Next: Study 39, then 17, 12, 21 (DOCX from the publisher).
 - v1.23 (2026-10-02): Study 39 retrofit complete (see row). Next: Study 17, then 12 and 21 (DOCX from the publisher). Note: Studies 39 and 40 are a narrower page size (432 x 649 pt) than other studies, so their previews are 1041x1565, not 1041x1347; render previews at each study's own aspect.
 - v1.24 (2026-10-02): Study 17 retrofit complete (see row). Next: Study 12, then 21 (DOCX from the publisher; 21 also owes the full Romans 11 treatment).
-- v1.25 (2026-10-02): New Rule 18 (Paul’s synagogue ministry and his commission) written into CLAUDE.md, the Framework §XIX and Master Standard v1.46 (rule-sync done). NEW SEARCH KEY for every study: grep "synagogue", "reasoned", "hope of Israel", "kingdom" near Paul/Acts 13–28; each hit takes the standing sentence (full in Studies 14, 18, 21, 43) or the short form for a passing mention, and fails if Paul is written as preaching the Gospel of the Kingdom as his own gospel, two gospels by audience, or as under the Prophecy Program until Acts 28. Studies 39, 40, 52, 55, 56, 57, 58 had no synagogue mention; Study 17 has one mention still to be checked. Next: Study 21.
+- v1.25 (2026-10-02): New Rule 18 (Paul’s synagogue ministry and his commission) written into CLAUDE.md, the Framework §XIX and Master Standard v1.46 (rule-sync done). NEW SEARCH KEY for every study: grep "synagogue", "reasoned", "hope of Israel", "kingdom" near Paul/Acts 13–28; each hit takes the standing sentence (full in Studies 14, 18, 21, 43) or the short form for a passing mention, and fails if Paul is written as preaching the Gospel of the Kingdom as his own gospel, two gospels by audience, or as under the Prophecy Program until Acts 28. Studies 39, 40, 52, 55, 56, 57, 58 had no synagogue mention; Study 17 has one mention still to be checked. Next: Wave 4 (46, 53, 1, 3, 7, 8, 10, 23, 26, 29, 31, 32, 33); studies 14 and 18 and 43 owe the full Rule 18 sentence when reached.
 - v1.26 (2026-10-02): Study 12 retrofit complete (see row). Next: Study 21 (DOCX from the publisher; owes the full Romans 11 treatment and the full Rule 18 sentence).
 - Note (2026-10-02): Study 12's What's Included heading said '13-Page' (stale, fixed to 15). Studies 14, 15 and 18 still carry a '13-Page In-Depth Biblical Study' heading; check each against its real page count when reached (Wave 5 sweep for 15).
+- v1.27 (2026-10-02): Study 21 retrofit complete (see row). Wave 3 done. Next: Wave 4 starting with Study 46 (source on hand); Studies 14, 18, 43 owe the full Rule 18 sentence.

diff --git a/controlling-documents/Digital_Studies_PAM_Audit_v1.120.md b/controlling-documents/Digital_Studies_PAM_Audit_v1.120.md
@@ -349,3 +349,4 @@ Study 15 PDF not yet supplied. Typography: none of Studies 2, 3, 6, 8 is in EB G
 - v1.117 (2026-10-02): Study 17 retrofitted: no withdrawn Abrahamic-participation wording found; 'framework' working terms removed from reader text (Section 9, Review Q10); Acts 28 'Prophecy is suspended' replaced by national judicial suspension, not abolition and not a transfer (OVERLAP CONTROL box, Study Summary table, Teaching Outline); standing overlap sentence added (Section 9). Review copy 18 pp, Roboto only; TOC unchanged; website previews unchanged.
 - v1.118 (2026-10-02): Rule 18 (Paul’s synagogue ministry and his commission) added to the Framework §XIX and Master Standard v1.46 at the publisher’s direction; applied to each study as it is reached (full in 14, 18, 21, 43; short form elsewhere). No study text changed in this pass.
 - v1.119 (2026-10-02): Study 12 retrofitted: standing overlap sentence (Section 8); Acts 28 national judicial suspension, not abolition and not a transfer; Romans 11 boundaries block (7.2); Rule 7 line; TOC renumbered (15 pp). No withdrawn wording or internal terms found; no synagogue mention.
+- v1.120 (2026-10-02): Study 21 retrofitted: Framework/'framework' working terms removed; withdrawn 'believing Jews are gathered into the Body' passage replaced under Rule 17; overlap sentence; Acts 28 national judicial suspension wording; full Romans 11 boundaries (6.1); Rule 18 applied; Matthew 13/Mark 4 passage line added; 17 pp.
